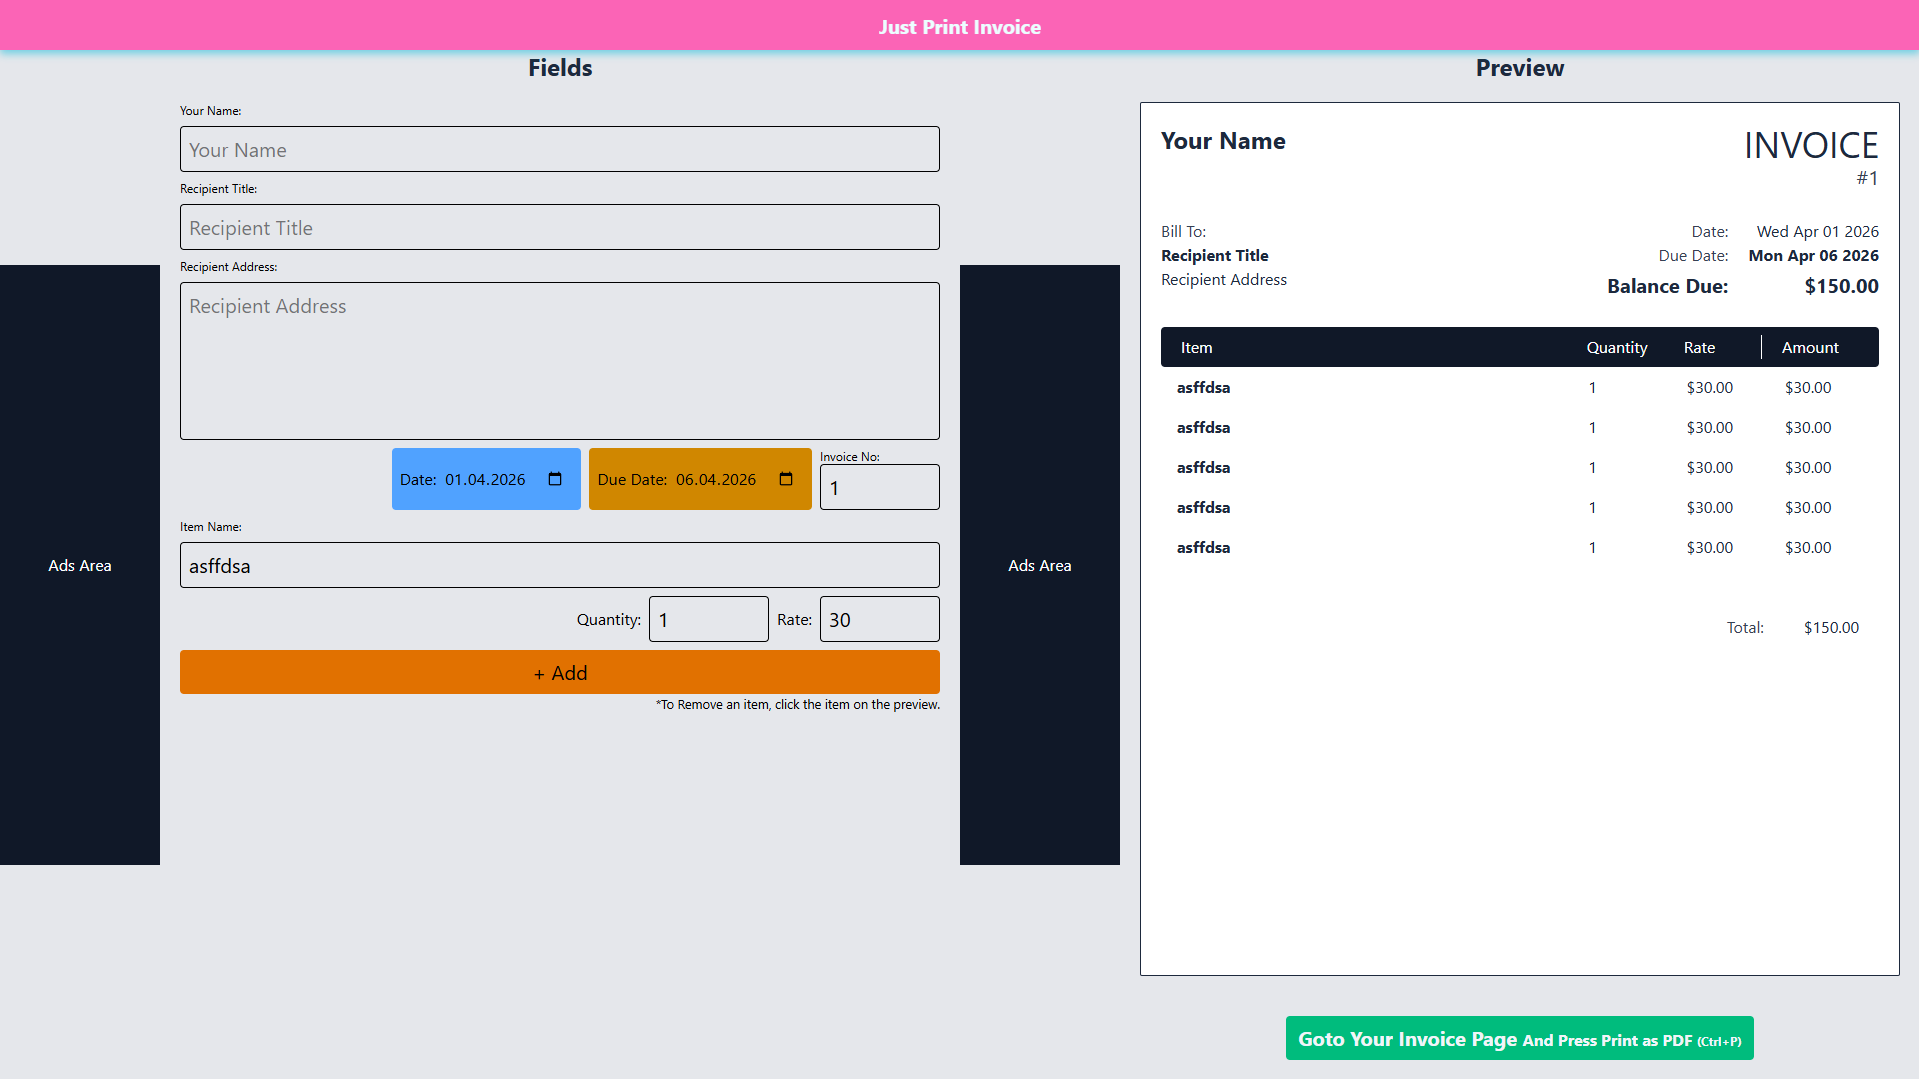
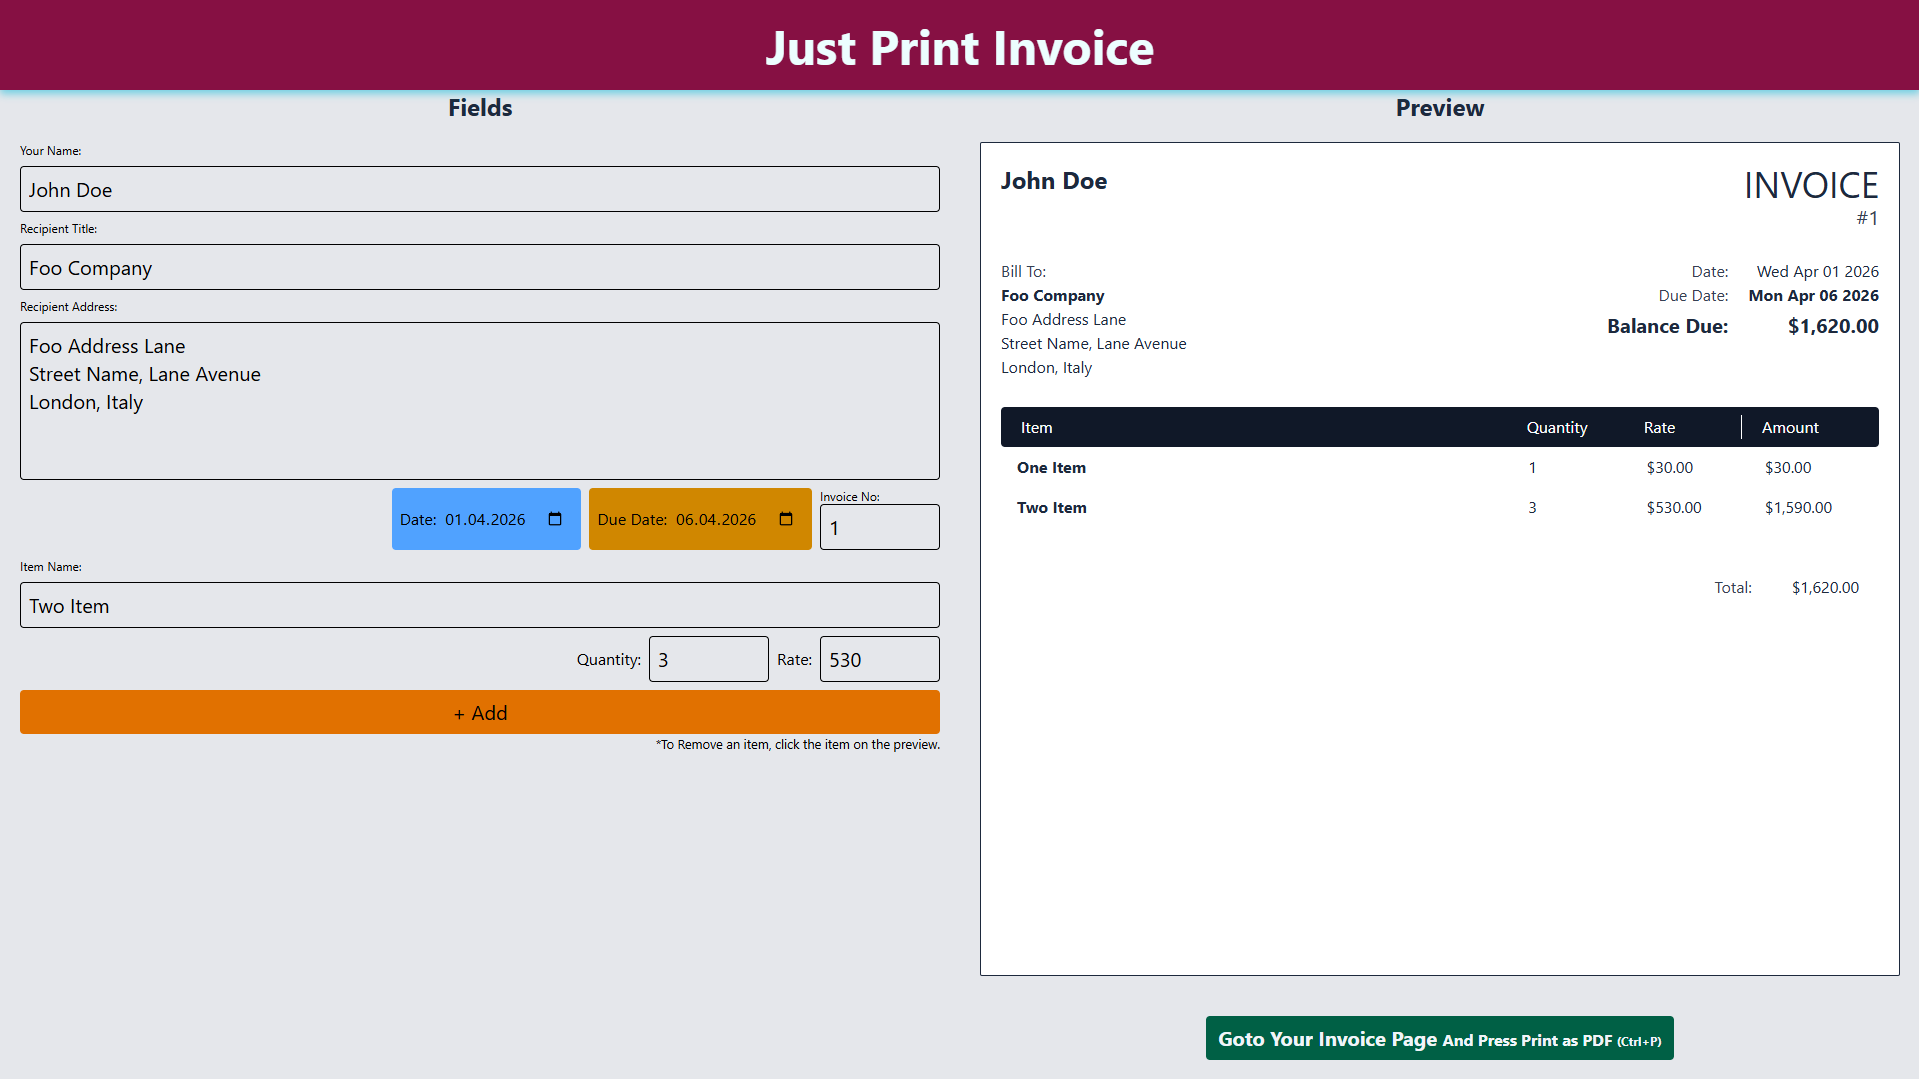
headers

diff --git a/src/routes/Home.tsx b/src/routes/Home.tsx
@@ -34,12 +34,12 @@ export default function Home() {
 
     return (<>
     <div class='flex flex-col'>
-        <div class='h-[50px] flex bg-pink-400 p-3 drop-shadow-lg drop-shadow-cyan-500/50 justify-center'>
-        <div class='text-cyan-50 font-bold text-xl'>
+        <header role="banner" class='h-[90px] flex bg-pink-900 p-3 drop-shadow-lg drop-shadow-cyan-500/50 justify-center'>
+        <nav role="navigation" class='text-cyan-50 font-bold text-5xl self-center'>
             Just Print Invoice
-        </div>
-        </div>
-        <div class='flex flex-1 flex-col lg:flex-row bg-gray-200'>
+        </nav>
+        </header>
+        <main role="main" class='flex flex-1 flex-col lg:flex-row bg-gray-200'>
                 <div class='flex bg-gray-900 text-white self-center'>
                     <script async src="https://pagead2.googlesyndication.com/pagead/js/adsbygoogle.js?client=ca-pub-8375052900987944"
                         crossorigin="anonymous"></script>
@@ -63,9 +63,9 @@ export default function Home() {
                     <input autocomplete="false" id="Recipient" class='border rounded-sm  text-xl p-2' type='text' title='Recipient Title' placeholder="Recipient Title" value={state.recipient_title} onInput={e => set_recipient_title(e.target.value)}></input>
                     <span class='text-xs'>Recipient Address:</span>
                     <textarea id="RecipientAddress" rows={5} class='border rounded-sm  text-xl p-2 resize-none' title='Recipient Address' placeholder="Recipient Address" value={state.recipient_address} onInput={e => set_recipient_address(e.target.value)}></textarea>
-                    <div class='flex gap-2 justify-end'>
+                    <div class='flex gap-2 justify-end flex-col lg:flex-row'>
                         <div class="flex-1"></div>
-                        <div class='flex p-2 bg-blue-400 rounded'>
+                        <div class='flex p-2 flex-row bg-blue-400 rounded'>
                             <label class='self-center'>Date:</label>
                             <input class='cursor-pointer p-2' id="Date" type='date' title='Date' value={state.date.toISOString().split('T')[0]} onInput={e => set_date(new Date(e.target.value)) }></input>
                         </div>
@@ -108,7 +108,7 @@ export default function Home() {
                         (adsbygoogle = window.adsbygoogle || []).push({ });
                     </script>
             </div>
-            <div class='h-[calc(100vh-50px)] flex preview flex-1 flex-col'>
+            <div class='h-[calc(100vh-90px)] flex preview flex-1 flex-col'>
                 <h2 class='text-center font-bold text-2xl text-slate-800'>Preview</h2>
                 <div class=' overflow-auto flex-1 flex flex-col gap-7 border m-5 rounded-xs bg-white p-5 text-slate-800'>
                     <div class='flex justify-between'>
@@ -163,10 +163,10 @@ export default function Home() {
                     </div>
                 </div>
                 <div class='flex p-5 justify-center'>
-                    <button class="hover:underline hover:bg-emerald-600 font-bold text-slate-100 text-xl bg-emerald-500 px-3 py-2 rounded-sm" onClick={goto_print_page}>Goto Your Invoice Page <small>And Press Print as PDF <span class='text-xs'>(Ctrl+P)</span></small></button>
+                    <button class="cursor-pointer hover:underline hover:bg-emerald-700 font-bold text-slate-100 text-xl bg-emerald-800 px-3 py-2 rounded-sm" onClick={goto_print_page}>Goto Your Invoice Page <small>And Press Print as PDF <span class='text-xs'>(Ctrl+P)</span></small></button>
                 </div>
             </div>
-        </div>
+        </main>
 </div>
     </>)
 }

diff --git a/index.html b/index.html
@@ -2,9 +2,23 @@
 <html lang="en">
   <head>
     <meta charset="UTF-8" />
-    <link rel="icon" type="image/svg+xml" href="/favicon.svg" />
+    <link rel="icon" type="image/svg+xml" href="./favicon.png" />
     <meta name="viewport" content="width=device-width, initial-scale=1.0" />
-    <title>just-print-invoice</title>
+    <title>justprintinvoice.com · Create an Invoice and Just Print your Invoice</title>
+    <meta name="description" content="Simple Tool to Create your Invoice and Just Print your Invoice.">
+    <meta property="og:title" content="Just Print Invoice">
+    <meta property="og:description" content="Create an Invoice and Just Print your Invoice">
+    <meta property="og:url" content="https://justprintinvoice.com">
+    <meta property="og:type" content="website">
+    <meta property="og:site_name" content="justprintinvoice.com">
+    <meta property="og:image:width" content="1024">
+    <meta property="og:image:height" content="1024">
+    <meta property="og:image:url" content="https://justprintinvoice.com/logo-big.png">
+    <meta property="og:image:secure_url" content="https://justprintinvoice.com/logo-big.png">
+
+    <meta property="twitter:card" content="summary">
+    <meta property="twitter:image" content="https://justprintinvoice.com/logo-big.png">
+
   </head>
   <body>
     <div id="root"></div>
